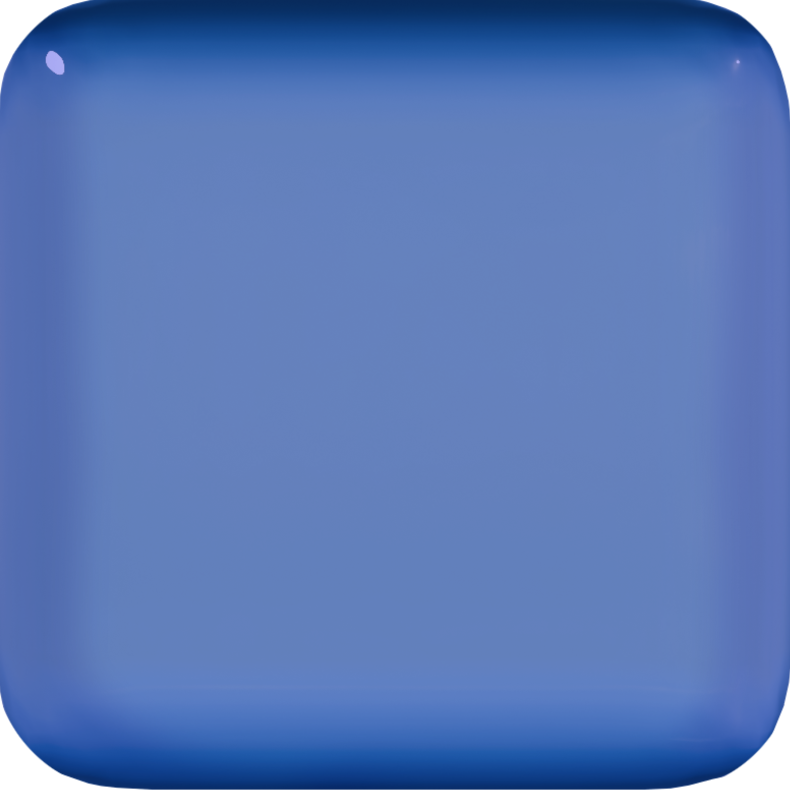
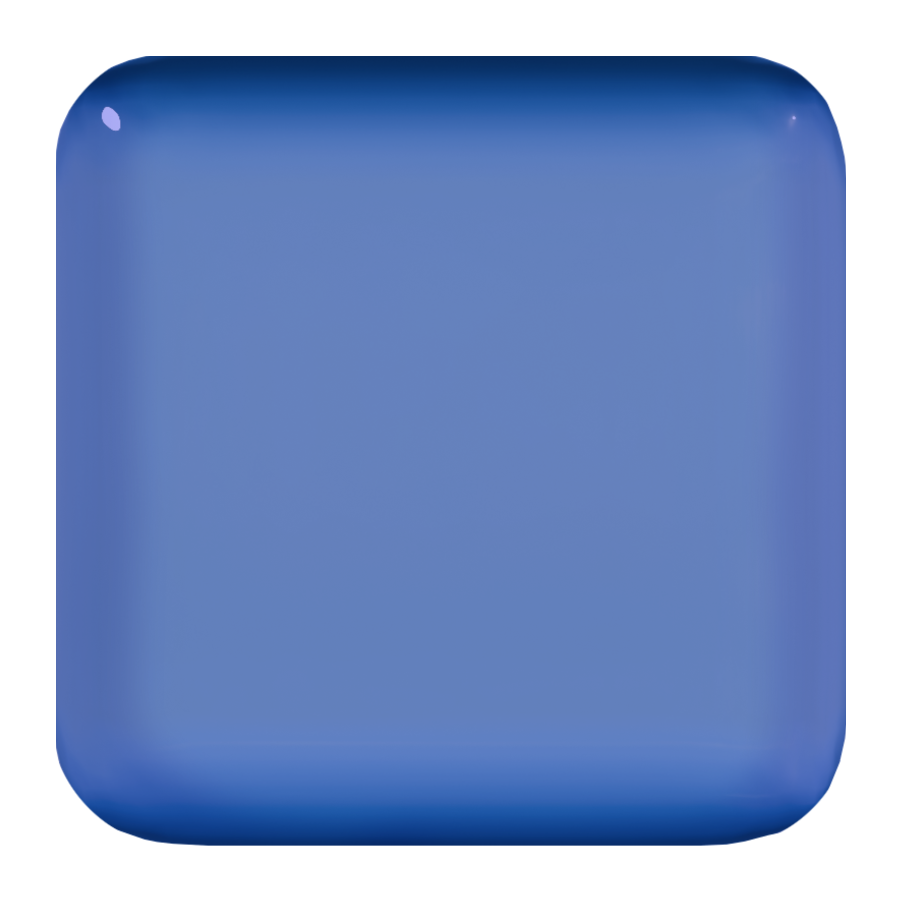
Fix improper card display, increment difficulty

diff --git a/main.py b/main.py
@@ -17,6 +17,7 @@ from player import *
 from round_logic import *
 from settings import *
 from start_screen import *
+from uicontrol import *
 from shop import *
 
 player: Player = Player()
@@ -73,6 +74,8 @@ async def main() -> None:
     )
     buttons.append(submit_button)
 
+    round_num: int = 0
+
     while running:
         base_number: int
 
@@ -88,8 +91,9 @@ async def main() -> None:
             game_state = display_start_screen(screen)
 
         elif game_state == "PLAYING":
+            round_num += 1
             if not round_initialized:
-                base_number: int = initialize_round(player.get_cards(), player.get_score_cards())
+                base_number: int = initialize_round(player.get_cards(), round_num)
                 round_initialized = True
             game_screen.display_game_screen(screen)
             ui.move_dragged(mouse_x, mouse_y)
@@ -97,17 +101,13 @@ async def main() -> None:
             screen.blit(submit_button.image, submit_button.pos)
 
         elif game_state == "SCORE":
+            player.set_cards(horizontal_list.cards())
         #     for c in ui.get_lists()[0].cards():
         #         player.add_scoring_card(c)
-            for c in ui.get_lists()[1].cards():
-                player.add_card(c)
-
             player.calculate_score(base_number)
             # player.bonus_score()
 
             print(player.get_score())
-
-
 
             game_state = "SHOP"
 

diff --git a/player.py b/player.py
@@ -23,13 +23,13 @@ class Player:
         self._cards[b] = _temp_card
 
     def calculate_score(self, base: int):
-        self._score += base
         card_index: int = 0
         try:
             for card in self._cards:
                 try:
-                    if card.meets_conditions(base, card_index):
-                        base = card.apply(base)
+                    if True or card.meets_conditions(base, card_index):
+                        base = card.apply(int(base))
+                        print(base, card._operation, card.get_number())
                     else:
                         pass
                 except:
@@ -37,6 +37,7 @@ class Player:
                 card_index += 1
         except:
             print("No cards")
+        self._score += base
 
     """
     Optional, but it was easy to implement so I added it here. If we decide that it would be a good design decision
@@ -59,6 +60,9 @@ class Player:
 
     def get_cards(self) -> list[Card]:
         return self._cards
+
+    def set_cards(self, cards: list[Card]) -> None:
+        self._cards = cards
 
     def get_score_cards(self) -> list[Card]:
         return self._score_cards

diff --git a/round_logic.py b/round_logic.py
@@ -7,14 +7,11 @@ from uicontrol import *
 random_card_amount: int = 2
 base_number: int = -1
 
-def initialize_round(cards: list[Card], score_cards: list[Card]):
+def initialize_round(cards: list[Card], roundnum: int):
     '''
     Assigns starting values and cards to the round
     '''
-    vertical_list._card_list.clear()
-    for card in score_cards:
-        vertical_list._card_list.append(card)
-
+    vertical_list._card_list = cards
 
     horizontal_list._card_list.clear()
     # for card in cards:
@@ -23,7 +20,7 @@ def initialize_round(cards: list[Card], score_cards: list[Card]):
     # horizontal_list._card_list.clear()
 
     for _ in range(random_card_amount):
-         horizontal_list._card_list.append(random_card(5))
+         horizontal_list._card_list.append(random_card(roundnum))
 
 
     number:int = random.randint(1,100) # Maybe have this change as the game goes on?

diff --git a/buttons.py b/buttons.py
@@ -25,16 +25,16 @@ class TextBox:
         pygame.font.init()
         f: Font = pygame.Font()
 
-        try:
-            f = pygame.Font(font, size=int(self.size[0] / len(self.text)))
-        except:
-            f = pygame.Font(size=42)
+
         _margin_w: int = (self.size[0] - f.size(self.text)[0]) // 2
         _margin_h: int = (self.size[1] - f.size(self.text)[1]) // 2
-        self.image.blit(f.render(self.text, True, (255, 255, 255)), (_margin_w, _margin_h))
 
-PIX_PER_PT: float = 1.5
-#scuffed font rendering workaround
+        try:
+            f = pygame.Font(font, size=int((self.size[0] - _margin_w)/ len(self.text)))
+        except:
+            f = pygame.Font(size=42)
+        self.image.blit(f.render(self.text, True, (255, 255, 255)), (_margin_w, _margin_h)) # FIXME: uncentered
+
 
 class Button(TextBox):
     function: Callable

diff --git a/cards.py b/cards.py
@@ -54,9 +54,12 @@ class Condition:
 class Card:
     hitbox: pygame.Rect = pygame.Rect(0, 0, CWIDTH, CWIDTH)
     position: tuple = (0, 0)
+    _value: int
 
     def __init__(self, v: int, o: str, c: Condition):
         self._value = v
+        if self._value == 0:
+            self._value = 1
         self._operation = o
         self._condition = c
         self._t = TextBox("assets/cardbg.png", self._operation + " " + str(self._value), (CWIDTH, CWIDTH), (0, 0), "assets/fonts/Neuropol.otf")
